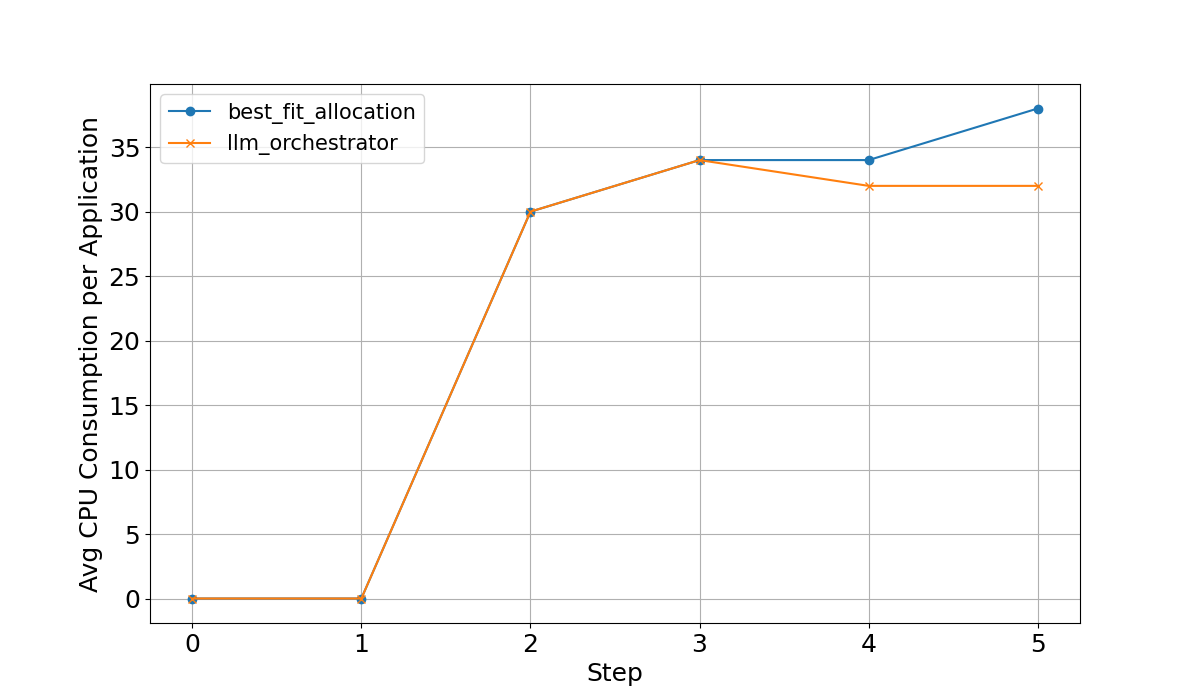
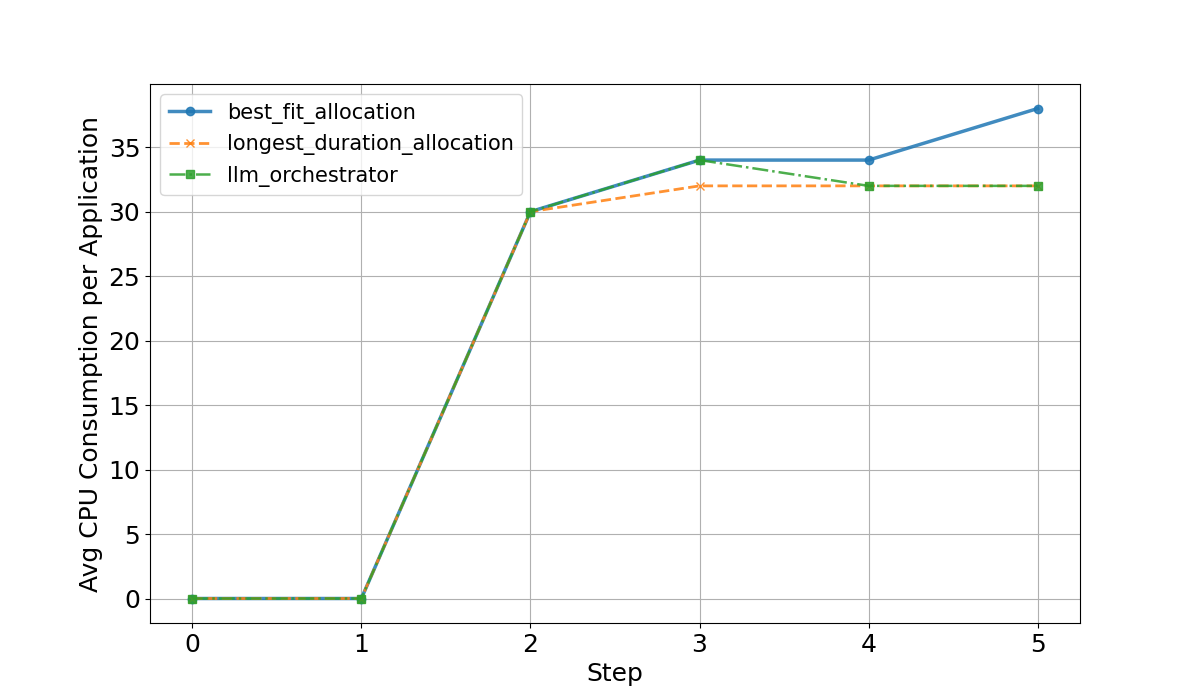
added longest_duration_allocation test

diff --git a/main.py b/main.py
@@ -140,12 +140,15 @@ def main(args):
     # =============
     # Plot results
     # =============
-    compare_algorithms_averaged(["best_fit_allocation", "llm_orchestrator"], ["hybrid"], 1, "logs")
-    plot_migrations(["best_fit_allocation", "llm_orchestrator"], ["hybrid"], 1, "logs")
-    plot_avg_resource_consumption(["best_fit_allocation", "llm_orchestrator"], ["hybrid"], 1, "logs")
-    # plot_provisioned_in_topology([args.algorithm], [str(args.scenario)], args.repetitions, args.logs_dir)
-    # plot_delay_by_groundstation([args.algorithm], [str(args.scenario)], args.repetitions, args.logs_dir, ground_station_id=1)
-    # plot_avg_resource_consumption([args.algorithm], [str(args.scenario)], args.repetitions, args.logs_dir)
+    algs = ["best_fit_allocation", "longest_duration_allocation", "llm_orchestrator"]
+    scenarios = [str(args.scenario)]
+
+    compare_algorithms_averaged(algs, scenarios, args.repetitions, args.logs_dir)
+    plot_migrations(algs, scenarios, args.repetitions, args.logs_dir)
+    plot_avg_topology(algs, scenarios, args.repetitions, args.logs_dir)
+    plot_provisioned_in_topology(algs, scenarios, args.repetitions, args.logs_dir)
+    plot_delay_by_groundstation(algs, scenarios, args.repetitions, args.logs_dir, ground_station_id=1)
+    plot_avg_resource_consumption(algs, scenarios, args.repetitions, args.logs_dir)
 
 if __name__ == "__main__":
     parser = argparse.ArgumentParser(description="LEO Simulation Runner")

diff --git a/plot.py b/plot.py
@@ -4,6 +4,8 @@ import matplotlib.pyplot as plt
 from pathlib import Path
 
 markers = ['o', 'x', 's', '^', 'D', '*', 'v', '+']
+linestyles = ['-', '--', '-.', ':']
+linewidths = [2.5, 2.0, 1.8, 1.5]
 
 # ==========================================================
 # UTILITY FUNCTIONS
@@ -33,7 +35,10 @@ def plot(data_dict, steps_dict, xlabel, ylabel, filename, current_path):
             steps_dict[label],
             data_dict[label],
             label=label,
-            marker=markers[i % len(markers)]
+            marker=markers[i % len(markers)],
+            linestyle=linestyles[i % len(linestyles)],
+            linewidth=linewidths[i % len(linewidths)],
+            alpha=0.85,
         )
 
     plt.xlabel(xlabel, fontsize=18)
